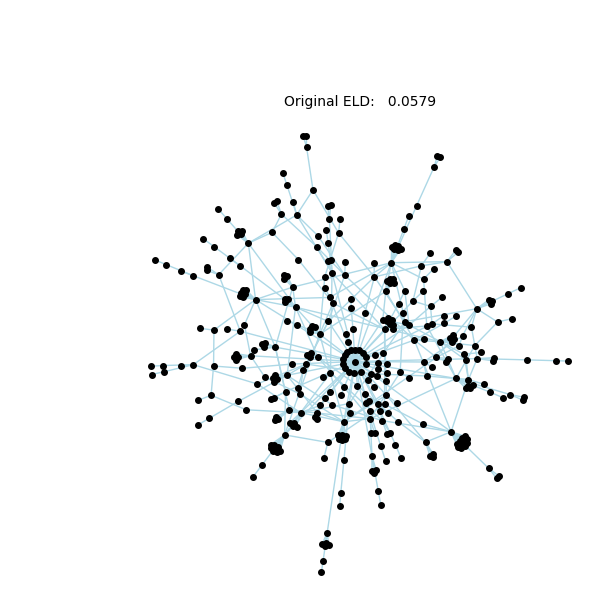
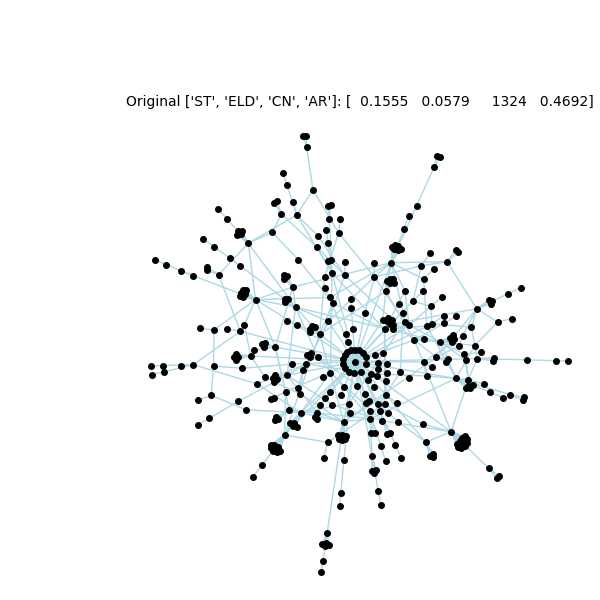
refactor for initial rickroll drawing

Changed region(s): [[0.21, 0.15, 0.78, 0.18], [0.9, 0.15, 0.99, 0.18], [0.81, 0.15, 0.87, 0.18]]

diff --git a/rr_final_drawings.py b/rr_final_drawings.py
@@ -55,6 +55,7 @@ if __name__ == '__main__':
         G = nx.convert_node_labels_to_integers(G)
 
         og_pos = torch.tensor(np.loadtxt('data/start_coords/{}.csv'.format(graph), delimiter=',', dtype=np.float64)).float()
+        args = G, nx.floyd_warshall_numpy(G), np.array(G.edges())
 
         # all target names and metrics
         metric_names = ['ST', 'AR', 'CN', 'ELD']
@@ -73,7 +74,6 @@ if __name__ == '__main__':
         for metric in metric_combs:
 
             all_png_names = []
-            args = G, nx.floyd_warshall_numpy(G), np.array(G.edges())
 
             if isinstance(metric, list):
                 qm_init = {}
@@ -161,6 +161,12 @@ if __name__ == '__main__':
 
         # save the initial drawing
         full_name_init = graph + '-init.png'
+        metric = ['ST', 'ELD', 'CN', 'AR']
+        qm_init = {}
+        for sub_m in metric:
+            qm_init[sub_m] = metric_funcs[sub_m](og_pos, args).item()
+        qm_init_list = torch.tensor(list(qm_init.values()))
+
         title = ('Original {}: '.format(metric) + format_array(qm_init_list.numpy()))
 
         # create figure/axes explicitly (important for stability)
